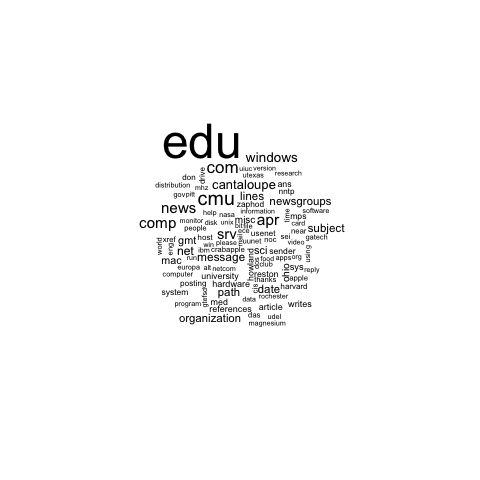
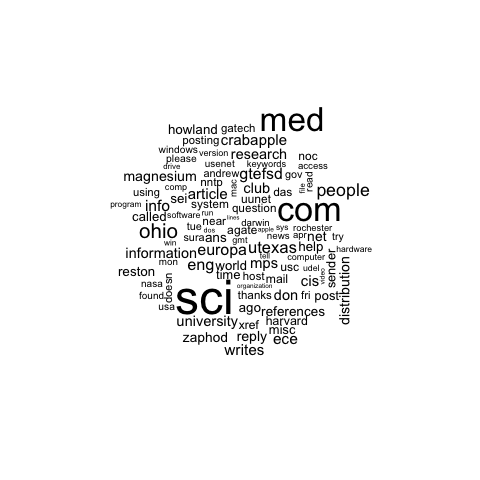
first commit

Changed region(s): [[0.2188, 0.2188, 0.7812, 0.75]]

diff --git a/source/20newsgroup_small_clust.rst b/source/20newsgroup_small_clust.rst
@@ -52,13 +52,13 @@ Text sumarization with world clouds
 
 Wordclouds are good to summarize documents. It is great to visually highlight the most representative words for each cluster. 
 This script in R perform clustering and as output plots wordclouds for each cluster.
-As mentioned above, the algorithm tells that it may be a good idea to consider only 2 groups. To present more latent results I will consider here 2 clusters instead of 3. 
 
 An example of use with `20newsgroup_small` dataset::
 
-	R -f build_worldclouds.r ../../data/20newsgroup_small/ FALSE 2 30 80
+	R -f build_worldclouds.r ../../data/20newsgroup_small/ FALSE 3 30 100
 
-Here the plotted for each of the two clusters.
+Here the plotted for each of the three clusters.
 
 .. image:: _plots/20newsgroup_small/1_20newsgroup_small.png
 .. image:: _plots/20newsgroup_small/2_20newsgroup_small.png
+.. image:: _plots/20newsgroup_small/3_20newsgroup_small.png

diff --git a/source/wikipedia_clust.rst b/source/wikipedia_clust.rst
@@ -65,7 +65,7 @@ An example of use with `wikipedia` dataset::
 
 	R -f build_worldclouds.r ../../data/wikipedia/ TRUE 4 30 80
 
-Here the plotted for each of the four clusters. The results seams not perfect. Not sure if there is a bug at the code or not. I hope to improve it soon. 
+Here the plotted for each of the four clusters. Its a start. I'm sure it can be improved.
 
 .. image:: _plots/wikipedia/1_wikipedia.png
 .. image:: _plots/wikipedia/2_wikipedia.png
